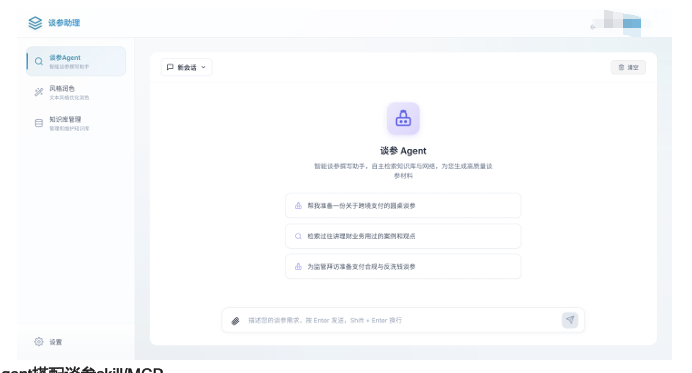
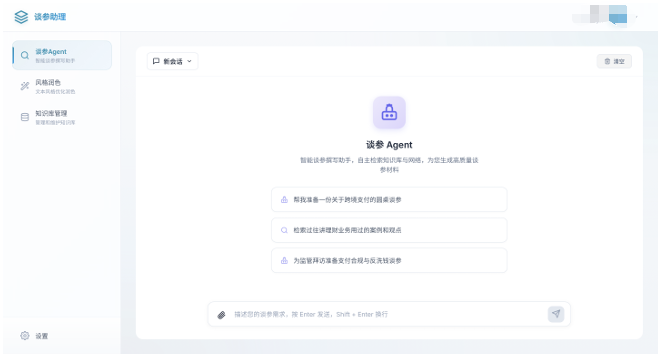
fix: refine negotiation agent project details

diff --git a/src/styles.css b/src/styles.css
@@ -279,7 +279,7 @@ filter:blur(22px);z-index:0}
 .project-detail-overlay{position:fixed;inset:0;z-index:6000;display:grid;place-items:center;padding:clamp(14px,3vw,44px);background:rgba(4,6,10,.86);backdrop-filter:blur(12px);overscroll-behavior:contain;animation:detail-overlay-in .22s ease-out}.project-detail-panel{width:min(1320px,100%);max-height:calc(100vh - 28px);overflow:hidden;border:1px solid rgba(255,255,255,.13);border-radius:20px;background:#11151d;box-shadow:0 28px 90px rgba(0,0,0,.55);color:#e9edf4;display:flex;flex-direction:column}.project-detail-head{display:flex;align-items:flex-start;justify-content:space-between;gap:24px;padding:24px clamp(24px,3vw,38px);border-bottom:1px solid rgba(255,255,255,.1)}.project-detail-head span{color:#8c9bb0;font-family:"Inter",var(--sans);font-size:11px;font-weight:700;letter-spacing:.08em;text-transform:uppercase}.project-detail-head h2{margin-top:7px;font-size:clamp(24px,2.5vw,34px);letter-spacing:-.02em;line-height:1.1}.project-detail-head button{width:36px;height:36px;border:1px solid rgba(255,255,255,.16);border-radius:50%;background:transparent;color:#f4f6f9;font-size:26px;line-height:1;cursor:pointer}.project-detail-head button:hover{background:rgba(255,255,255,.1)}
 .project-detail-content{display:grid;grid-template-columns:minmax(0,.95fr) minmax(380px,1.05fr);min-height:0;flex:1}.project-detail-copy,.project-detail-gallery{overflow:auto;overscroll-behavior:contain}.project-detail-copy{padding:clamp(24px,3vw,42px);border-right:1px solid rgba(255,255,255,.1)}.project-detail-gallery{padding:clamp(18px,2vw,28px);display:grid;align-content:start;gap:22px;background:#0c0f15}.project-detail-gallery figure{margin:0;border:1px solid rgba(255,255,255,.1);border-radius:11px;overflow:hidden;background:#141a24}.project-detail-gallery figure>button{display:block;width:100%;padding:0;border:0;background:#fff;cursor:zoom-in}.project-detail-gallery img{display:block;width:100%;height:auto;background:#fff}.project-detail-gallery figcaption{display:grid;gap:5px;padding:13px 14px;border-bottom:1px solid rgba(255,255,255,.08);color:#aeb9c8;font-size:12px;line-height:1.55}.project-detail-gallery figcaption b{color:#f5f7fb;font-size:14px}.project-detail-gallery figcaption b::after{content:' · 点击放大';margin-left:8px;color:#668fff;font-size:10px;font-weight:700}.project-detail-gallery figcaption span{color:#9eacbe}
 .project-image-lightbox{position:fixed;inset:0;z-index:6100;display:grid;place-items:center;padding:34px;background:rgba(0,0,0,.92);cursor:zoom-out}.project-image-lightbox img{max-width:calc(100vw - 90px);max-height:calc(100vh - 90px);width:auto;height:auto;object-fit:contain;box-shadow:0 24px 80px rgba(0,0,0,.55);cursor:default}.project-image-lightbox>button{position:absolute;top:20px;right:24px;width:38px;height:38px;border:1px solid rgba(255,255,255,.25);border-radius:50%;background:#161b24;color:#fff;font-size:25px;line-height:1;cursor:pointer;z-index:1}
-.project-markdown{font-size:14px;line-height:1.75;color:#bec8d6}.project-markdown h2{margin:0 0 18px;color:#fff;font-size:29px;line-height:1.2}.project-markdown h3{margin:30px 0 12px;padding-bottom:9px;border-bottom:1px solid rgba(255,255,255,.12);color:#fff;font-size:18px}.project-markdown h4{margin:20px 0 8px;color:#f5f7fa;font-size:15px}.project-markdown p{margin:0 0 12px}.project-markdown strong{color:#fff;font-weight:800}.project-markdown blockquote{margin:17px 0;padding:10px 14px;border-left:2px solid #4d81ff;background:rgba(77,129,255,.1);color:#d5deed}.project-markdown pre{margin:0;padding:2px 10px;border-left:1px solid rgba(255,255,255,.16);font-family:"IBM Plex Mono",monospace;font-size:11px;line-height:1.55;white-space:pre-wrap;color:#9eb4d5}.project-md-bullet{display:flex;gap:9px}.project-md-bullet>span{color:#77a0ff}.project-md-table{padding:7px 9px;margin:0 0 1px!important;background:rgba(255,255,255,.045);font-size:12px}.project-detail-loading{color:#93a2b8;font-size:14px}@keyframes detail-overlay-in{from{opacity:0}to{opacity:1}}
+.project-markdown{font-size:14px;line-height:1.75;color:#bec8d6}.project-markdown h2{margin:0 0 18px;color:#fff;font-size:29px;line-height:1.2}.project-markdown h3{margin:30px 0 12px;padding-bottom:9px;border-bottom:1px solid rgba(255,255,255,.12);color:#fff;font-size:18px}.project-markdown h4{margin:20px 0 8px;color:#f5f7fa;font-size:15px}.project-markdown p{margin:0 0 12px}.project-markdown strong{color:#fff;font-weight:800}.project-markdown blockquote{margin:17px 0;padding:10px 14px;border-left:2px solid #4d81ff;background:rgba(77,129,255,.1);color:#d5deed}.project-markdown pre{margin:0;padding:2px 10px;border-left:1px solid rgba(255,255,255,.16);font-family:"IBM Plex Mono",monospace;font-size:11px;line-height:1.55;white-space:pre-wrap;color:#9eb4d5}.project-md-bullet{display:flex;gap:9px;align-items:flex-start}.project-md-bullet>span:first-child{flex:0 0 auto;color:#77a0ff}.project-md-bullet-copy{min-width:0;flex:1}.project-md-table{padding:7px 9px;margin:0 0 1px!important;background:rgba(255,255,255,.045);font-size:12px}.project-detail-loading{color:#93a2b8;font-size:14px}@keyframes detail-overlay-in{from{opacity:0}to{opacity:1}}
 .project-markdown{font-size:14px;line-height:1.75;color:#bec8d6}.project-markdown h2{margin:0 0 18px;color:#fff;font-size:29px;line-height:1.2}.project-markdown h3{margin:30px 0 12px;padding-bottom:9px;border-bottom:1px solid rgba(255,255,255,.12);color:#fff;font-size:18px}.project-markdown h4{margin:20px 0 8px;color:#f5f7fa;font-size:15px}.project-markdown p{margin:0 0 12px}.project-markdown strong{color:#fff;font-weight:800}.project-markdown blockquote{margin:17px 0;padding:10px 14px;border-left:2px solid #4d81ff;background:rgba(77,129,255,.1);color:#d5deed}.project-markdown pre{margin:0;padding:2px 10px;border-left:1px solid rgba(255,255,255,.16);font-family:"IBM Plex Mono",monospace;font-size:11px;line-height:1.55;white-space:pre-wrap;color:#9eb4d5}.project-md-bullet{display:flex;gap:9px}.project-md-bullet>span{color:#77a0ff}.project-md-table{padding:7px 9px;margin:0 0 1px!important;background:rgba(255,255,255,.045);font-size:12px}.project-detail-loading{color:#93a2b8;font-size:14px}.skill-download{display:inline-flex;align-items:center;gap:8px;margin:8px 0 18px;padding:10px 15px;border:1px solid rgba(104,147,255,.56);border-radius:7px;background:rgba(73,124,255,.15);color:#b9ccff;font-size:13px;font-weight:800}.skill-download::after{content:'↓';font-size:16px}@keyframes detail-overlay-in{from{opacity:0}to{opacity:1}}
 @media (max-width:850px){.project-detail-overlay{padding:10px}.project-detail-panel{max-height:calc(100vh - 20px);border-radius:14px}.project-detail-head{padding:18px 20px}.project-detail-content{grid-template-columns:1fr;overflow:auto}.project-detail-copy{overflow:visible;border-right:0}.project-detail-gallery{overflow:visible;grid-template-columns:repeat(2,minmax(0,1fr))}.project-detail-head h2{font-size:23px}}
 .project-detail-panel{width:min(1700px,100%)}

diff --git a/src/data/content.js b/src/data/content.js
@@ -140,7 +140,7 @@ export const projects = [
     meta: '个人项目 · 2024 – 2025',
     title: '谈参 Agent · avatar-chat',
     detailId: 'tancan-agent',
-    desc: '面向高管谈参场景的 AI Copilot：自主完成需求拆解、多源检索、草稿撰写、双 AI 五维评分与风格润色；知识库沉淀 1,907 条结构化切片，并可通过 Web 与 MCP 跨平台调用。',
+    desc: '面向高管谈参场景的 AI Copilot：自主完成需求拆解、多源检索、草稿撰写、双 AI 五维评分与风格润色；公司员工可以通过Web和MCP跨平台调用。',
     tags: ['React', 'Flask', 'Agent Loop', 'GLM', 'MCP'],
     cta: '#',
     ctaText: '打开作品链接',
@@ -168,7 +168,7 @@ export const projects = [
 ]
 
 export const projectsEn = [
-  { icon: '◈', title: 'Negotiation Agent · avatar-chat', detailId: 'tancan-agent', desc: 'An AI copilot for executive negotiation: it independently decomposes requirements, retrieves information, drafts content, conducts dual-AI five-dimensional evaluation, and refines style. Its knowledge base contains 1,907 structured chunks and supports Web and MCP usage.', tags: ['React', 'Flask', 'Agent Loop', 'GLM', 'MCP'], cta: '#', ctaText: 'Open project' },
+  { icon: '◈', title: 'Negotiation Agent · avatar-chat', detailId: 'tancan-agent', desc: 'An AI copilot for executive negotiation: it independently decomposes requirements, retrieves information, drafts content, conducts dual-AI five-dimensional evaluation, and refines style. Company employees can call it across Web and MCP.', tags: ['React', 'Flask', 'Agent Loop', 'GLM', 'MCP'], cta: '#', ctaText: 'Open project' },
   { icon: '▦', title: 'Job Search Workbench', detailId: 'job-workbench', desc: 'An AI-powered job-search management system: scans 20+ official career sites daily, scores opportunities against a candidate profile, admits roles scoring 70 or above, and unifies tracking for saved roles, applications, and interviews.', tags: ['AI web search', 'SQLite', 'Smart scoring', 'Job tracking', 'Auto publish'], cta: '#', ctaText: 'Open project' },
   { icon: '◐', title: 'HKU MFFinTech Interactive Timetable', detailId: 'course-planner', desc: 'An interactive planner built on real course dates: visualizes 42 course sections across 402 teaching days, detects time conflicts, and supports weekly views, recommended plans, and local saving.', tags: ['HTML', 'JavaScript', 'Conflict detection', 'Weekly view', 'Plan reuse'], cta: '#', ctaText: 'Open project' },
 ]

diff --git a/src/components/Projects.jsx b/src/components/Projects.jsx
@@ -145,7 +145,7 @@ Executive-facing materials for roundtables, regulatory visits, and media intervi
 | Blind evaluation | Two AI evaluators independently score five dimensions—theme, logic, evidence, information gain, and audience awareness—with third-model arbitration when needed. |
 | Style refinement | Uses templates for roundtables, speeches, interviews, regulatory visits, partner visits, and internal sharing; custom style profiles are also supported. |
 | Structured knowledge base | 1,907 structured chunks with 13-dimensional metadata and a three-level knowledge graph support filtering and related analysis. |
-| Cross-platform delivery | The same capability is available through the Web app and MCP for tools such as Claude Code and WorkBuddy. |
+| Cross-platform delivery | Company employees can call the same capability across Web and MCP. |
 
 ## Main interface
 
@@ -290,7 +290,7 @@ function MarkdownArticle({ source, projectId, projectTitle, onImageClick, lang }
     if (line.startsWith('# ')) return <h2 key={index}>{line.slice(2)}</h2>
     if (line.startsWith('## ')) return <h3 key={index}>{line.slice(3).replace('（面试可展开）', '')}</h3>
     if (line.startsWith('### ')) return <h4 key={index}>{line.slice(4)}</h4>
-    if (line.startsWith('- ')) return <p className="project-md-bullet" key={index}><span>•</span><InlineMarkdown text={line.slice(2)} /></p>
+    if (line.startsWith('- ')) return <p className="project-md-bullet" key={index}><span>•</span><span className="project-md-bullet-copy"><InlineMarkdown text={line.slice(2)} /></span></p>
     if (line.startsWith('|')) return <p className="project-md-table" key={index}>{line.split('|').filter(Boolean).join('  ·  ')}</p>
     if (line.startsWith('> ')) return <blockquote key={index}><InlineMarkdown text={line.slice(2)} /></blockquote>
     return line.trim() ? <p key={index}><InlineMarkdown text={line} /></p> : null
